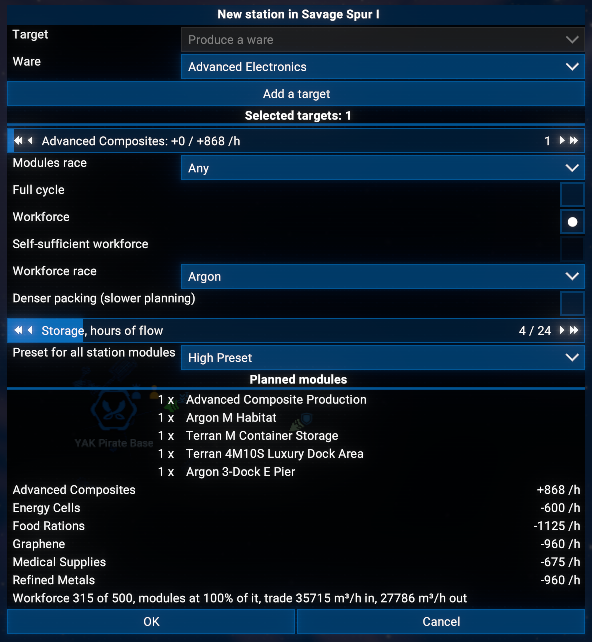
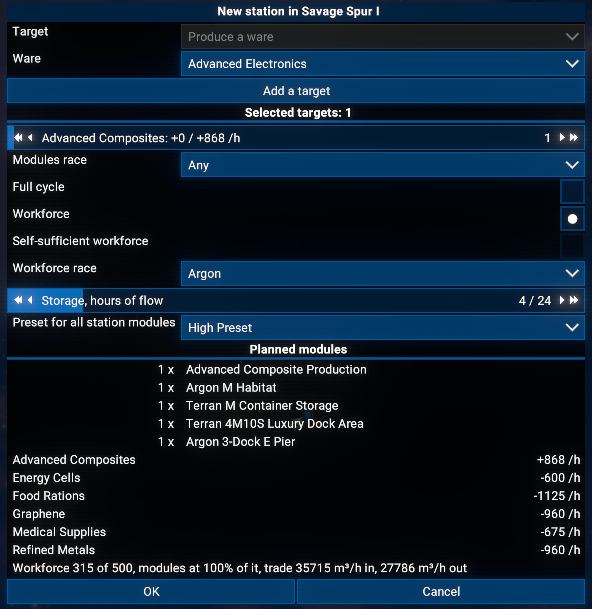
Workforce race from owned habitats, seeded grid fix for 8.00, batch placement only
- Workforce race: no Argon default; planner.WorkforceRace picks the race with
  the most owned habitats (a tie goes to the lower race id).
- Grid upgrade on an existing lattice: existing modules, ports and zones are
  measured from where the reference cross's arms meet, as new modules are. The
  8.00 Argon cross's box centre is 170 m below that point, so seeded modules sat
  a cell too low and a new module could be planned into an existing one.
- Placement is always the batch method: 2 per frame, the menu's lists rebuilt
  once when the run ends. The modules-per-frame slider and the Fast placement
  checkbox are removed, with their texts.
- Docs: panel, run and map dialog screenshots retaken.

Changed region(s): [[0.0, 0.0, 1.0, 0.7488], [0.0, 0.7488, 0.973, 0.9984], [0.9122, 0.7488, 0.973, 0.9048]]

diff --git a/README.md b/README.md
@@ -70,7 +70,7 @@ Open the build menu of one of your stations. The Station Architect panel sits un
 
 ![A run waiting for the plot licence](docs/images/panel_licence.png)
 
-5. The run places the modules one after another; the panel shows the progress, and **Stop** halts it after the current module. **Modules per frame** sets how many modules are placed per frame. **Fast placement** rebuilds the menu's lists only when the run ends instead of after every module, five to ten times faster on a large plan; the slider is not used while it is on.
+5. The run places the modules one after another; the panel shows the progress, and **Stop** halts it after the current module. The menu's lists are rebuilt once when the run ends, not after every module.
 
 ![A run in progress](docs/images/panel_running.png)
 
